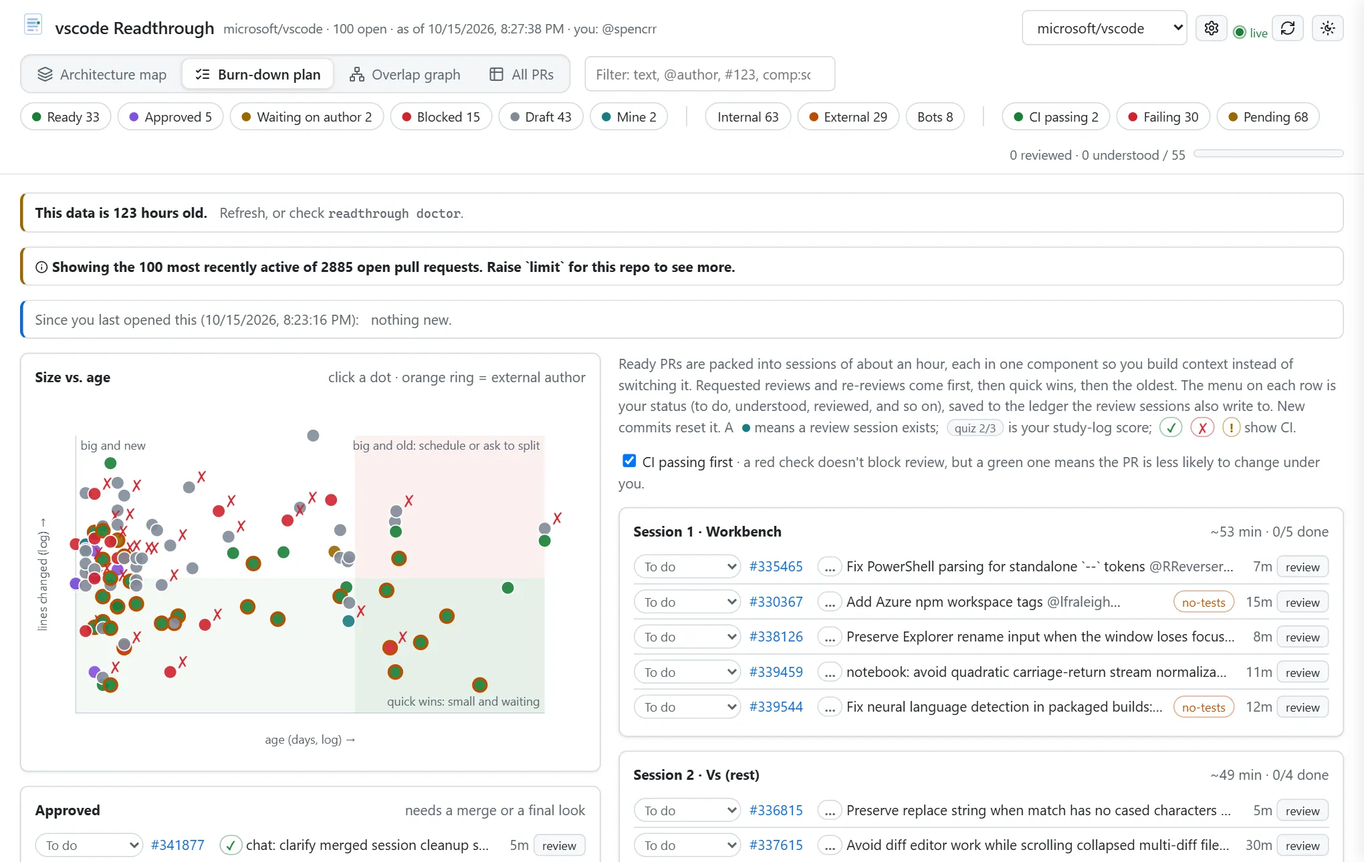
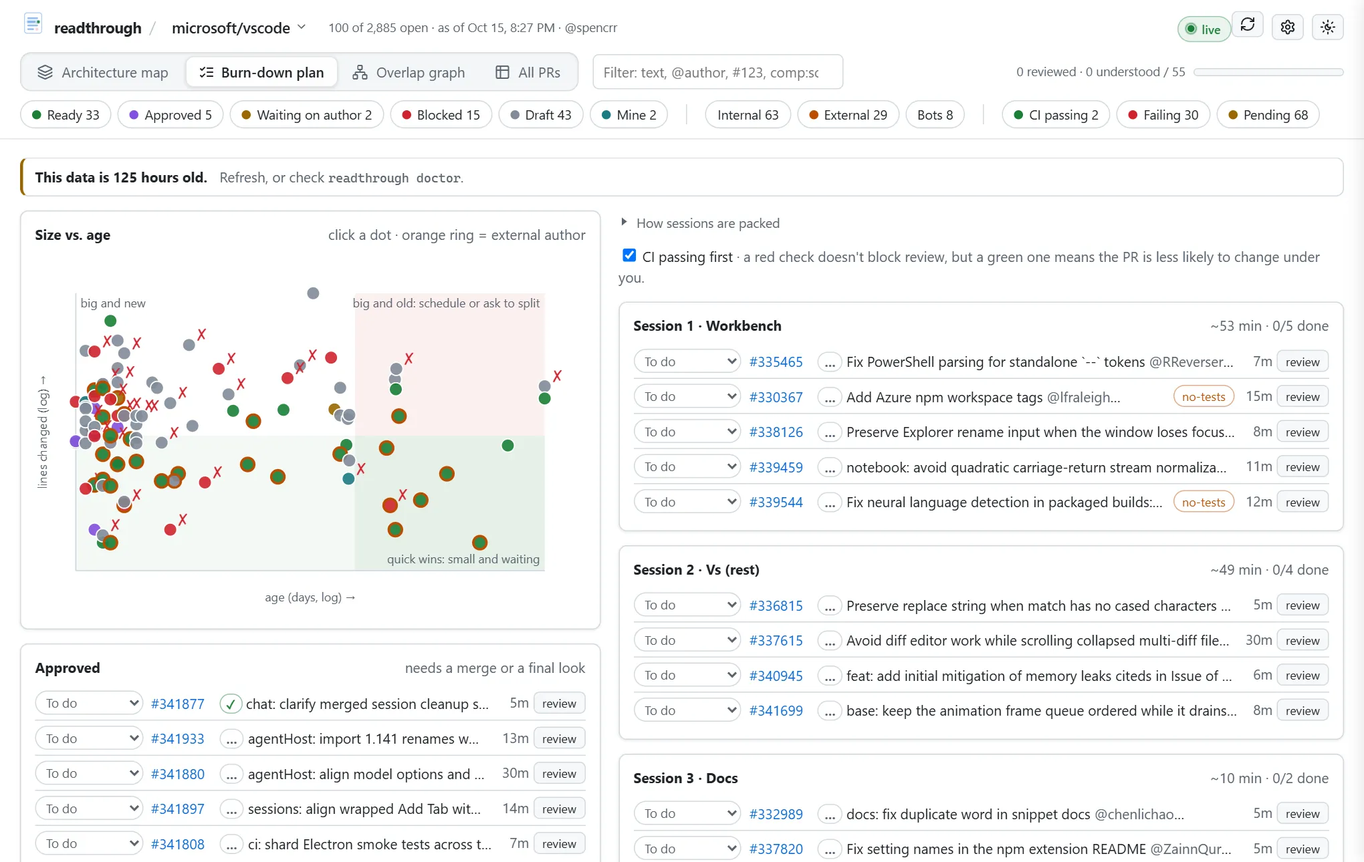
Put the product first in the header, and quieten what sits around the map
The header read "vscode Readthrough · microsoft/vscode · 100 open · as of
10/15/2026, 8:27:38 PM · you: @spencrr", with the repo named twice and
the tool named as if it were the repo's. It now reads in three weights:
readthrough / microsoft/vscode · 100 of 2,885 open · as of 8:27 PM ·
@spencrr. The repo is a quiet pill that opens the switcher (the native
select, laid invisibly over it, so keyboard and screen readers still get
a select), the time is only as long as it needs to be, and the count
carries what used to be a permanent warning banner about the repo's
limit, with the explanation on hover.

The connection was a green "live" label floating beside a button. It's a
status chip now: live, refreshing, offline, or refresh failed, each in
its own colour with the detail on hover; the refresh button spins while
a refresh runs instead of growing a "refreshing…" label. The tab row
stopped changing width while the indicator slides: a selected tab is
bolder, so each label reserves its bold width with an invisible copy.

Around the content: the "nothing new since you last opened this" banner
is gone (news is still announced when there is some), the explanation
under each view folds away under "How to read the map" and stays as you
left it, and the progress bar moved up beside the search box instead of
holding a row of its own. On microsoft/vscode the content starts about
200 px higher.

The setup page shares the header (brand, then where you are: Welcome,
[…]

diff --git a/src/readthrough/assets/web/dashboard.js b/src/readthrough/assets/web/dashboard.js
@@ -192,14 +192,26 @@ function visible(p){
 }
 
 // ---- header
+// "as of" in as few words as the moment allows: the time alone for today, the date too for anything older.
+function when(ts){
+  const d = new Date(ts), now = new Date();
+  const time = d.toLocaleTimeString([], {hour: "numeric", minute: "2-digit"});
+  return d.toDateString() === now.toDateString() ? time : `${d.toLocaleDateString([], {month: "short", day: "numeric"})}, ${time}`;
+}
 function header(){
-  document.title = `${PROFILE.title} Readthrough`;
-  $("title").textContent = `${PROFILE.title} Readthrough`;
+  // The product first, the repo second, the small print third: readthrough / microsoft/vscode · 100 open · as of…
+  document.title = `${PROFILE.title} · readthrough`;
   $("repos").innerHTML = LIVE
-    ? `<select id="repoSwitch" title="Switch repo">${LIVE.repos.map(r => `<option value="${esc(r.slug)}" ${r.slug === SLUG ? "selected" : ""}>${esc(r.name)}</option>`).join("")}<option value="__setup">+ Onboard a repo…</option></select>
-       <a class="btn icon" href="/setup?repo=${encodeURIComponent(SLUG)}" title="Settings for ${esc(DATA.repo)}: account, clone, profile, authors" aria-label="Repo settings">${icon("settings")}</a>`
+    ? `<label class="switch" title="Switch repo (${esc(FORGE.label)})"><span class="switch-name">${esc(DATA.repo)}</span>${icon("chevron-down", "ico sm")}<select id="repoSwitch" aria-label="Switch repo">${LIVE.repos.map(r => `<option value="${esc(r.slug)}" ${r.slug === SLUG ? "selected" : ""}>${esc(r.name)}</option>`).join("")}<option value="__setup">+ Onboard a repo…</option></select></label>`
+    : `<span class="switch static" title="${esc(FORGE.label)}">${esc(DATA.repo)}</span>`;
+  $("tools").innerHTML = LIVE
+    ? `<a class="btn icon" href="/setup?repo=${encodeURIComponent(SLUG)}" title="Settings for ${esc(DATA.repo)}: account, clone, profile, authors" aria-label="Repo settings">${icon("settings")}</a>`
     : "";
-  $("meta").textContent = `${DATA.repo} · ${DATA.prs.length} open · as of ${new Date(DATA.generated).toLocaleString()} · you: @${DATA.viewer}`;
+  const shown = DATA.prs.length, open = DATA.stats?.open;
+  const openCount = open > shown
+    ? `<span title="Showing the ${shown} most recently active of ${open.toLocaleString()} open ${esc(FORGE.pr_noun)}s. Raise \`limit\` in this repo's settings to see more.">${shown} of ${open.toLocaleString()} open</span>`
+    : `${shown} open`;
+  $("meta").innerHTML = [openCount, `as of ${esc(when(DATA.generated))}`, DATA.viewer ? `@${esc(DATA.viewer)}` : ""].filter(Boolean).join(" · ");
   $("logo").innerHTML ||= LOGO;
   renderTabs();
   const count = fn => DATA.prs.reduce((m, p) => (m[fn(p)] = (m[fn(p)] || 0) + 1, m), {});
@@ -225,26 +237,30 @@ function header(){
   const r = ready.filter(p => progress[p.number]?.reviewed && !stale(p.number)).length;
   $("progtext").textContent = `${r} reviewed · ${u} understood / ${ready.length}`;
   $("progbar").innerHTML = `<span style="width:${100*r/ready.length}%;background:var(--ready)"></span><span style="width:${100*(u-r)/ready.length}%;background:color-mix(in srgb,var(--ready) 40%,transparent)"></span>`;
+  const building = !!LIVE?.status?.building;
   $("refresh").innerHTML = LIVE
-    ? `${liveBadge()} <button class="btn icon" data-refresh title="Fetch the latest PRs now" aria-label="Refresh">${icon("refresh-cw")}${LIVE.status?.building ? "refreshing…" : ""}</button>`
+    ? `${liveBadge()}<button class="btn icon ${building ? "busy" : ""}" data-refresh ${building ? "disabled" : ""} title="${building ? "Refreshing now" : "Fetch the latest PRs now"}" aria-label="Refresh">${icon("refresh-cw")}</button>`
     : LINKS.protocol ? `<a class="btn icon" href="readthrough://refresh/${SLUG}" title="Refresh">${icon("refresh-cw")}</a>`
     : `<button class="btn icon" data-copy="readthrough build --open" title="Copies the refresh command" aria-label="Copy refresh command">${icon("refresh-cw")}</button>`;
   syncHash();
   banners();
   favicon(needsYou());
 }
+// The connection and the last refresh, as one quiet chip: live, refreshing, offline, or failed. Details on hover.
 function liveBadge(){
   const s = LIVE.status || {};
-  if (LIVE.disconnected) return `<span class="live-badge off" title="Lost the connection to readthrough serve. Retrying."><span class="ping"></span>offline</span>`;
+  const chip = (cls, text, title) => `<span class="live ${cls}" role="status" title="${esc(title)}"><span class="ping"></span>${text}</span>`;
+  if (LIVE.disconnected) return chip("off", "offline", "Lost the connection to readthrough serve. Retrying.");
+  if (s.building) return chip("busy", "refreshing", "Fetching the latest PRs now.");
   if (s.error) { const e = typeof s.error === "object" ? `${s.error.message} [error ${s.error.id}]` : s.error;
-    return `<span class="live-badge err" title="${esc(e)}"><span class="ping"></span>refresh failed</span>`; }
-  const next = s.next_build ? ` · next check ${new Date(s.next_build * 1000).toLocaleTimeString([], {hour: "numeric", minute: "2-digit"})}` : "";
-  return `<span class="live-badge" title="Connected to readthrough serve${next}"><span class="ping"></span>live</span>`;
+    return chip("err", "refresh failed", `The last refresh failed: ${e}. Showing the last good data; retrying automatically.`); }
+  const next = s.next_build ? ` Next check at ${new Date(s.next_build * 1000).toLocaleTimeString([], {hour: "numeric", minute: "2-digit"})}.` : "";
+  return chip("", "live", `Connected to readthrough serve; the page updates itself.${next}`);
 }
 const TABS = [["map", "Architecture map", "layers"], ["plan", "Burn-down plan", "list-checks"], ["overlap", "Overlap graph", "network"], ["table", "All PRs", "table-2"]];
 function renderTabs(){
   const nav = $("tabs");
-  if (!nav.childElementCount) nav.innerHTML = `<span class="tab-ind"></span>` + TABS.map(([k, l, ic]) => `<button class="tab" data-tab="${k}" title="${l}">${icon(ic)}<span>${l}</span></button>`).join("");
+  if (!nav.childElementCount) nav.innerHTML = `<span class="tab-ind"></span>` + TABS.map(([k, l, ic]) => `<button class="tab" data-tab="${k}" title="${l}">${icon(ic)}<span class="tl" data-l="${l}">${l}</span></button>`).join("");
   let on;
   nav.querySelectorAll(".tab").forEach(t => { const yes = t.dataset.tab === state.tab; t.classList.toggle("on", yes); t.setAttribute("aria-current", yes ? "page" : "false"); if (yes) on = t; });
   const ind = nav.querySelector(".tab-ind");
@@ -267,13 +283,17 @@ function pick(group, key, e){
   render();
 }
 const needsYou = () => DATA.prs.filter(p => p.flags.some(f => f.kind === "you") && !progress[p.number]?.reviewed).length;
+// The explanation under a view's title, folded away once read; whether it's open is remembered across views and visits.
+const legend = (title, html) => `<details class="legend" ${localStorage.getItem("readthrough:legend") === "open" ? "open" : ""}><summary>${title}</summary><p>${html}</p></details>`;
+document.addEventListener("toggle", e => { if (e.target.matches?.("details.legend")) localStorage.setItem("readthrough:legend", e.target.open ? "open" : "closed"); }, true);
 function banners(){
   const out = [];
   const ageH = (Date.now() - new Date(DATA.generated)) / 3.6e6, fresh = DATA.freshness || {stale_live_hours: 2, stale_snapshot_hours: 26};
   if (ageH > (LIVE ? fresh.stale_live_hours : fresh.stale_snapshot_hours)) out.push(`<div class="banner warn"><b>This data is ${Math.round(ageH)} hours old.</b><span class="muted">Refresh, or check <code>readthrough doctor</code>.</span></div>`);
   const err = LIVE?.status?.error;
   if (err && typeof err === "object") out.push(`<div class="banner warn"><b>The last refresh failed</b><span>during ${esc(err.step)}: ${esc(err.message)}</span><span class="muted">Showing the last good data. ${LIVE.status.consecutive_failures > 1 ? `${LIVE.status.consecutive_failures} failures in a row. ` : ""}Retrying automatically. Error <code>${esc(err.id)}</code> in readthrough.log.</span></div>`);
-  for (const w of DATA.warnings || []) out.push(`<div class="banner warn"><b>${icon("info", "ico sm")}${esc(w.message)}</b>${w.details?.length ? `<details class="muted"><summary>${w.details.length} detail${w.details.length > 1 ? "s" : ""}</summary><ul>${w.details.map(d => `<li><code>${esc(d)}</code></li>`).join("")}</ul></details>` : ""}</div>`);
+  // The `limit` warning is a standing fact about a big repo, not news: the header's count carries it ("100 of 2,885 open").
+  for (const w of (DATA.warnings || []).filter(w => w.code !== "limit")) out.push(`<div class="banner warn"><b>${icon("info", "ico sm")}${esc(w.message)}</b>${w.details?.length ? `<details class="muted"><summary>${w.details.length} detail${w.details.length > 1 ? "s" : ""}</summary><ul>${w.details.map(d => `<li><code>${esc(d)}</code></li>`).join("")}</ul></details>` : ""}</div>`);
   if (DATA.draft) out.push(`<div class="banner warn"><b>Onboarding preview.</b><span class="muted">This map comes from a draft profile. Edit it, then finish with <code>readthrough onboard ${esc(DATA.repo)} --accept</code>.</span></div>`);
   if (DATA.drift) out.push(`<div class="banner warn"><b>The map is drifting:</b><span>only ${Math.round(DATA.drift.coverage * 100)}% of open-PR changes land in a known component.</span><span class="muted">Unmapped: ${DATA.drift.unmapped.map(([p, n]) => `<code>${esc(p)}</code> (${n})`).join(", ")}. Update it with <code>readthrough onboard ${esc(DATA.repo)} --update</code>.</span></div>`);
   const nw = DATA.news || {};
@@ -284,7 +304,8 @@ function banners(){
     if (nw.changed_after_review?.length) parts.push(`<span><b>Changed since your review:</b> ${list(nw.changed_after_review)}</span>`);
     if (nw.opened?.length) parts.push(`<span><b>New:</b> ${list(nw.opened)}</span>`);
     if (nw.closed?.length) parts.push(`<span class="muted">Closed or merged: ${nw.closed.map(c => `<span title="${esc(c.title)}">#${c.number}</span>`).join(", ")}</span>`);
-    out.push(`<div class="banner"><span class="muted">Since you last opened this (${new Date(nw.since).toLocaleString()}):</span>${parts.join("") || '<span class="muted">nothing new.</span>'}</div>`);
+    // Only when there is news: "nothing new" isn't worth a banner on every visit.
+    if (parts.length) out.push(`<div class="banner"><span class="muted">Since you last opened this (${esc(when(nw.since))}):</span>${parts.join("")}</div>`);
   }
   $("banners").innerHTML = out.join("");
 }
@@ -316,7 +337,7 @@ function mixBar(prs, comp, total, max){
 function renderMap(){
   const vis = DATA.prs.filter(visible);
   const max = Math.max(1, ...DATA.components.map(c => vis.reduce((s,p) => s + (p.by_comp[c.id]||0), 0)));
-  let html = `<p class="legend">Each chip is a PR, colored by lane and sized by how much it changes. An outline marks the component where most of the change lives. An orange dot marks an external author, a hollow one a first-time contributor. Hover a chip to light up every component it touches; click a component to filter. The bar under a component shows how much is changing there compared with the busiest one, colored by lane. ${icon("cog", "ico sm")}Placement is by the profile's path patterns, not a language model. ${profileLine()}</p>`;
+  let html = legend("How to read the map", `Each chip is a PR, colored by lane and sized by how much it changes. An outline marks the component where most of the change lives. An orange dot marks an external author, a hollow one a first-time contributor. Hover a chip to light up every component it touches; click a component to filter. The bar under a component shows how much is changing there compared with the busiest one, colored by lane. ${icon("cog", "ico sm")}Placement is by the profile's path patterns, not a language model. ${profileLine()}`);
   if (!vis.length) { $("v-map").innerHTML = html + EMPTY("No PRs match these filters."); return; }
   for (const {id: layer, label, flow} of PROFILE.layers){
     const bricks = DATA.components.filter(c => c.layer === layer).map((c, i) => {
@@ -392,7 +413,7 @@ function renderPlan(){
       ${lane("mine","your PRs")}
       ${lane("draft","not ready yet")}
     </div><div>
-      <p class="muted" style="margin-top:0">Ready PRs are packed into sessions of about an hour, each in one component so you build context instead of switching it. Requested reviews and re-reviews come first, then quick wins, then the oldest. The menu on each row is your status (to do, understood, reviewed, and so on)${LIVE ? ", saved to the ledger the review sessions also write to" : ""}. New commits reset it. A <span class="sess"></span> means a review session exists; <span class="score">quiz 2/3</span> is your study-log score; <span class="cib passing">✓</span> <span class="cib failing">✗</span> <span class="cib failing-optional">!</span> show CI.</p>
+      ${legend("How sessions are packed", `Ready PRs are packed into sessions of about an hour, each in one component so you build context instead of switching it. Requested reviews and re-reviews come first, then quick wins, then the oldest. The menu on each row is your status (to do, understood, reviewed, and so on)${LIVE ? ", saved to the ledger the review sessions also write to" : ""}. New commits reset it. A <span class="sess"></span> means a review session exists; <span class="score">quiz 2/3</span> is your study-log score; <span class="cib passing">✓</span> <span class="cib failing">✗</span> <span class="cib failing-optional">!</span> show CI.`)}
       <p style="margin-top:0"><label><input type="checkbox" id="greenFirst" ${state.greenFirst ? "checked" : ""}> CI passing first</label> <span class="muted">· a red check doesn't block review, but a green one means the PR is less likely to change under you.</span></p>
       ${sessions || `<div class="card">${EMPTY("Nothing ready matches these filters.")}</div>`}
     </div></div>`;

diff --git a/src/readthrough/assets/web/setup.js b/src/readthrough/assets/web/setup.js
@@ -2,8 +2,19 @@ const LIVE = /*__READTHROUGH_LIVE__*/null;
 const $ = id => document.getElementById(id);
 const esc = s => String(s ?? "").replace(/[&<>"']/g, c => ({"&":"&amp;","<":"&lt;",">":"&gt;",'"':"&quot;","'":"&#39;"}[c]));
 const icon = (name, cls = "ico") => `<svg class="${cls}" viewBox="0 0 24 24" aria-hidden="true">${LUCIDE[name] || ""}</svg>`;
-const theme = localStorage.getItem("readthrough:theme") || "auto";
-document.documentElement.dataset.theme = theme === "auto" ? (matchMedia("(prefers-color-scheme: dark)").matches ? "dark" : "light") : theme;
+// The theme: the same three-way choice as the dashboard, remembered in the same place.
+const THEMES = ["auto", "light", "dark"];
+let themePref = localStorage.getItem("readthrough:theme") || "auto";
+const darkQuery = matchMedia("(prefers-color-scheme: dark)");
+function applyTheme(){
+  document.documentElement.dataset.theme = themePref === "auto" ? (darkQuery.matches ? "dark" : "light") : themePref;
+  $("theme").innerHTML = icon({auto: "sun-moon", light: "sun", dark: "moon"}[themePref]);
+  $("theme").title = {auto: "Theme: follows your OS", light: "Theme: light", dark: "Theme: dark"}[themePref] + ". Click to change.";
+  $("theme").setAttribute("aria-label", $("theme").title);
+}
+darkQuery.addEventListener("change", applyTheme);
+$("theme").addEventListener("click", () => { themePref = THEMES[(THEMES.indexOf(themePref) + 1) % THEMES.length]; localStorage.setItem("readthrough:theme", themePref); applyTheme(); });
+applyTheme();
 $("logo").innerHTML = `<svg class="logo" viewBox="0 0 32 32" aria-hidden="true"><rect x="5.5" y="3.5" width="21" height="25" rx="3" fill="none" stroke="currentColor" stroke-opacity=".35"/><rect x="7.5" y="7.25" width="17" height="5.5" rx="2.75" fill="currentColor" fill-opacity=".16"/><g stroke="currentColor" stroke-width="2" stroke-linecap="round" stroke-opacity=".45"><line x1="10" y1="10" x2="21" y2="10"/><line x1="10" y1="14.5" x2="18" y2="14.5"/><line x1="10" y1="19" x2="21" y2="19"/><line x1="10" y1="23.5" x2="16" y2="23.5"/></g></svg>`;
 function toast(msg){ const t = $("toast"); t.textContent = msg; t.classList.add("on"); clearTimeout(toast.t); toast.t = setTimeout(() => t.classList.remove("on"), 2600); }
 async function api(path, body){
@@ -39,16 +50,28 @@ async function load(){
   render();
 }
 function render(){
-  const st = S.state, repos = st.repos;
-  $("back").innerHTML = repos.some(r => r.onboarded) ? `<a class="btn" href="/">${icon("map")}Dashboards</a>` : "";
+  const st = S.state, repos = st.repos, onboarded = repos.filter(r => r.onboarded);
+  $("back").innerHTML = onboarded.length ? `<a class="btn" href="/">${icon("map")}Dashboards</a>` : "";
+  // Where you are, in the header: the repo being set up, or the first-run welcome.
+  const repo = st.repo;
+  $("where").textContent = S.sel && repo ? (repo.onboarded ? repo.name : `Set up ${repo.name}`) : onboarded.length ? "Set up a repo" : "Welcome";
+  $("meta").textContent = onboarded.length ? `${onboarded.length} repo${onboarded.length > 1 ? "s" : ""} onboarded` : "";
   $("nav").innerHTML = repos.map(r => `<button class="ritem ${isSel(r) ? "on" : ""}" data-repo="${esc(r.slug)}"><span class="dot ${r.onboarded ? "ok" : "todo"}" title="${r.onboarded ? "Onboarded" : "Not onboarded yet"}"></span><span class="n">${esc(r.name)}${forgeTag(r)}</span>${same(st.settings.default_repo, r.cli_name) ? '<span style="font-size:11px;color:var(--mut)">default</span>' : ""}</button>`).join("")
     + `<button class="ritem ${S.sel ? "" : "on"}" data-new>${icon("plus")}<span class="n">Onboard a repo</span></button>`
-    + `<div style="margin-top:14px">${globalCard()}</div>`;
-  const repo = st.repo;
+    + (onboarded.length ? `<div style="margin-top:14px">${globalCard()}</div>` : "");  // nothing to set until a repo exists
   if (!S.sel || !repo || !repo.onboarded) {
-    renderWizard(repo);
+    renderWizard(repo, {first: !onboarded.length});
+    if (!onboarded.length && !S.w.repo && !S.w.focused) { S.w.focused = true; $("w-repo")?.focus(); }
     if (S.w.repo && !S.w.info && !S.w.tried) { S.w.tried = true; act({dataset: {act: "inspect"}}); }
   } else renderSettings(repo);
+}
+// The first thing a newcomer sees: what readthrough does and what the three steps below will ask for.
+function welcome(){
+  return `<div class="card welcome"><h2>Welcome to readthrough</h2>
+    <p>It lays a repo's open pull requests on a map of the repo's architecture, packs the reviewable ones into hour-long sessions, and gives each one a study brief with a quiz, so you understand a change before you review it. Three steps, about two minutes:</p>
+    <ol><li><span class="step">1</span><span><b>Which repo</b> and how to read it.</span></li>
+    <li><span class="step">2</span><span><b>Your clone</b>, for deep reviews and study. Optional for the map.</span></li>
+    <li><span class="step">3</span><span><b>Its architecture profile</b>: drafted for you, checked against recent changes, accepted by you.</span></li></ol></div>`;
 }
 
 // ---- global settings (in the side bar)
@@ -62,17 +85,17 @@ function globalCard(){
 }
 
 // ---- onboarding wizard
-function renderWizard(repo){
+function renderWizard(repo, {first = false} = {}){
   const w = S.w ||= {repo: repo?.name || "", forge: repo?.forge || "github", account: repo?.account || "", clone: repo?.clone || "", remote: repo?.remote || "", info: null, cloneInfo: null, toml: repo?.profile_text || "", report: null, log: [], busy: false, editable: true, source: repo?.source || null};
   const accounts = S.state.accounts, forges = S.state.forges, forge = forgeOf(w.forge), rt = S.state.runtime || {};
   const cli = `readthrough onboard ${w.repo || forge.shape.split(" ")[0]}${w.forge !== "github" ? ` --forge ${w.forge}` : ""}${w.account ? ` --account ${w.account}` : ""}${w.clone ? ` --clone "${w.clone}"` : ""}`;
-  const step = (n, done) => `<span class="step ${done ? "done" : ""}">${done ? "✓" : n}</span>`;
+  const step = (n, done) => `<span class="step ${done ? "done" : ""}">${done ? icon("check", "ico sm") : n}</span>`;
   const info = w.info;
   // How the chosen forge is read, and where its credential comes from, so nobody is surprised by a CLI or a
   // token lookup. Written per adapter; after Check access the line says which credential was actually used.
   const howRead = `<p class="sub access"><b>${esc(forge.label)}</b> is read through ${esc(forge.access || "its API")}${forge.credentials?.length ? `, as ${forge.credentials.map(c => `<span class="cred">${esc(c)}</span>`).join(" ")}` : ""}.
     Nothing is written to the repo, and readthrough never stores a token${forge.accounts ? "" : " or prompts you to sign in"}.</p>`;
-  $("main").innerHTML = `
+  $("main").innerHTML = `${first ? welcome() : ""}
   <div class="card"><h2>${step(1, !!info)}Which repo?</h2>
     ${howRead}
     <div class="row"><label class="f">Where<select id="w-forge">${forges.map(f => `<option value="${esc(f.name)}" ${w.forge === f.name ? "selected" : ""} title="${esc(f.summary)}">${esc(f.label)}</option>`).join("")}</select></label>

diff --git a/src/readthrough/assets/web/dashboard.css b/src/readthrough/assets/web/dashboard.css
@@ -8,21 +8,25 @@
   --l0:#39c5cf;--l1:#539bf5;--l2:#57ab5a;--l3:#986ee2;--l4:#e0823d;--l5:#e275ad;--support:#768390;
   --risk:#e0823d;--glass-well:rgba(28,33,40,.55);--glass-chip:rgba(68,76,86,.55);--glass-hi:rgba(255,255,255,.07);--glass-blur:saturate(1.4) blur(16px);
 }
-header{position:sticky;top:0;z-index:5;background:var(--glass-bg);-webkit-backdrop-filter:var(--glass-blur);backdrop-filter:var(--glass-blur);border-bottom:1px solid var(--glass-line);padding:10px 20px;display:flex;flex-direction:column;gap:9px}
+header{-webkit-backdrop-filter:var(--glass-blur);backdrop-filter:var(--glass-blur);display:flex;flex-direction:column;gap:9px}
 .hrow{display:flex;gap:14px;align-items:center;flex-wrap:wrap}.hrow.top{flex-wrap:nowrap;gap:12px}
-h1{font-size:17px;margin:0;font-weight:600;flex:1;min-width:0;display:flex;align-items:center;gap:9px;white-space:nowrap}
-h1 #title{flex:none}h1 small{color:var(--mut);font-weight:400;font-size:13px;overflow:hidden;text-overflow:ellipsis;min-width:0}
-.hactions{display:flex;gap:8px;align-items:center;flex:none}#repos{display:inline-flex;gap:8px;align-items:center}
-.logo{width:26px;height:26px;flex:none;color:var(--acc)}.logo .sweep{animation:read 8s ease-in-out infinite}
+.logo .sweep{animation:read 8s ease-in-out infinite}
 .logo .blip{animation:blip 8s ease-out infinite}.logo .blip.b2{animation-delay:-4s}
 /* The band dwells on each of the four lines, then starts over; the notes light up as it passes them. */
 @keyframes read{0%,20%{transform:translateY(0)}25%,45%{transform:translateY(4.5px)}50%,70%{transform:translateY(9px)}75%,95%{transform:translateY(13.5px)}100%{transform:translateY(0)}}
 @keyframes blip{0%,24%{opacity:.2}30%{opacity:1}70%,100%{opacity:.2}}
 .how{font-size:12.5px;color:var(--mut);border-top:1px solid var(--line);margin-top:18px;padding-top:10px}.how p{margin:4px 0}
-.btn.icon{padding:4px 7px;display:inline-flex;align-items:center;gap:6px}
+.btn.icon{padding:0 7px;height:26px;display:inline-flex;align-items:center;gap:6px}
 .tabs{position:relative;display:flex;gap:2px;padding:3px;border-radius:11px;background:var(--glass-well);border:1px solid var(--glass-line);box-shadow:inset 0 1px 2px rgba(0,0,0,.06)}
 .tab{position:relative;z-index:1;display:flex;align-items:center;gap:7px;padding:5px 13px;border:0;background:none;border-radius:8px;cursor:pointer;color:var(--mut);font:inherit;transition:color .2s}
 .tab:hover{color:var(--fg)}.tab.on{color:var(--fg);font-weight:500}.tab:focus-visible{outline:2px solid var(--acc);outline-offset:1px}
+/* A selected tab is bolder, and bold is wider: each label reserves its bold width up front (an invisible bold
+   copy under it), so the row doesn't breathe while the indicator slides. */
+.tab .tl{display:inline-flex;flex-direction:column;align-items:center}
+.tab .tl::after{content:attr(data-l);font-weight:500;height:0;overflow:hidden;visibility:hidden;pointer-events:none}
+details.legend{color:var(--mut);font-size:13px;margin:0 0 14px}details.legend summary{cursor:pointer;display:inline-flex;align-items:center;gap:6px;list-style:none;user-select:none}
+details.legend summary::-webkit-details-marker{display:none}details.legend summary::before{content:"";width:0;height:0;border:4px solid transparent;border-left:5px solid currentColor;margin-left:3px;transition:transform .15s}
+details.legend[open] summary::before{transform:rotate(90deg)}details.legend p{margin:6px 0 0}
 .tab-ind{position:absolute;z-index:0;top:3px;bottom:3px;left:3px;width:0;border-radius:8px;background:var(--glass-chip);border:1px solid var(--glass-line);box-shadow:0 1px 3px rgba(0,0,0,.12),inset 0 1px 0 var(--glass-hi);transition:left .32s cubic-bezier(.2,.8,.2,1),width .32s cubic-bezier(.2,.8,.2,1)}
 .spacer{flex:1}
 .filters{display:flex;gap:6px;flex-wrap:wrap;align-items:center}
@@ -33,7 +37,7 @@ h1 #title{flex:none}h1 small{color:var(--mut);font-weight:400;font-size:13px;ove
 input[type=search],textarea,select{background:var(--panel);border:1px solid var(--line);color:var(--fg);padding:6px 10px;border-radius:6px;font:inherit}
 input[type=search]{width:250px}textarea{width:100%;resize:vertical;min-height:64px}
 input[type=search]:focus,textarea:focus{outline:2px solid var(--acc);outline-offset:-1px;border-color:transparent}
-.progress{display:flex;align-items:center;gap:8px;color:var(--mut);font-size:13px}
+.progress{display:flex;align-items:center;gap:8px;color:var(--mut);font-size:12.5px;margin-left:auto;white-space:nowrap}
 .bar{width:150px;height:8px;background:var(--subtle);border:1px solid var(--line);border-radius:4px;overflow:hidden;display:flex}.bar span{height:100%}
 .btn{background:var(--subtle);border:1px solid var(--line);color:var(--fg);border-radius:6px;padding:3px 10px;font:inherit;font-size:13px;cursor:pointer;line-height:1.5;display:inline-block}
 .btn:hover{border-color:var(--line-strong);text-decoration:none}.btn:disabled{opacity:.5;cursor:default}
@@ -74,9 +78,6 @@ main{padding:18px 20px}body.drawer-open main{margin-right:var(--drawer-w,560px)}
 .cib.passing{color:var(--good);border-color:color-mix(in srgb,var(--good) 45%,transparent)}
 .cib.failing-main{color:var(--mut);text-decoration:line-through}
 .checks div{display:flex;gap:8px;align-items:baseline;padding:1px 0}
-.live-badge{font-size:12px;color:var(--ready);display:inline-flex;align-items:center;gap:6px}.live-badge.off{color:var(--mut)}.live-badge.err{color:var(--bad)}
-.ping{position:relative;width:8px;height:8px;border-radius:50%;background:currentColor}.live-badge:not(.off) .ping::after{content:"";position:absolute;inset:0;border-radius:50%;border:1.5px solid currentColor;animation:ping 2.4s ease-out infinite}
-@keyframes ping{0%{transform:scale(1);opacity:.8}100%{transform:scale(3.2);opacity:0}}
 /* map */
 .layer{display:grid;grid-template-columns:130px 1fr;gap:12px;margin-bottom:14px}
 .layer-label{color:var(--mut);font-size:12px;text-transform:uppercase;letter-spacing:.06em;padding:10px 0 0 10px;border-left:3px solid}

diff --git a/src/readthrough/assets/web/theme.css b/src/readthrough/assets/web/theme.css
@@ -7,3 +7,29 @@ a{color:var(--acc);text-decoration:none}a:hover{text-decoration:underline}
 code,.mono{font-family:ui-monospace,"Cascadia Code",Consolas,monospace;font-size:12.5px}
 .ico{width:16px;height:16px;stroke:currentColor;fill:none;stroke-width:2;stroke-linecap:round;stroke-linejoin:round;vertical-align:-3px;flex:none}
 .ico.sm{width:13px;height:13px;vertical-align:-2px;margin-right:4px}
+/* The header both pages share: the product first, then where you are, then the small print. */
+header{position:sticky;top:0;z-index:5;background:var(--glass-bg);-webkit-backdrop-filter:saturate(1.6) blur(16px);backdrop-filter:saturate(1.6) blur(16px);border-bottom:1px solid var(--glass-line);padding:10px 20px}
+h1{font-size:15px;margin:0;font-weight:400;flex:1;min-width:0;display:flex;align-items:center;gap:8px;white-space:nowrap;line-height:26px}
+.logo{width:26px;height:26px;flex:none;color:var(--acc)}
+.brand{font-weight:650;letter-spacing:-.01em;color:var(--fg)}
+.crumb{display:inline-flex;align-items:center;gap:8px;min-width:0}
+.crumb-sep{color:var(--line-strong);font-weight:300;font-size:17px;position:relative;top:-1px}
+h1 small{color:var(--mut);font-size:12.5px;overflow:hidden;text-overflow:ellipsis;min-width:0;margin-left:4px}
+/* The repo switcher: a quiet pill that opens the native select laid invisibly over it, so it's keyboard-reachable. */
+.switch{position:relative;display:inline-flex;align-items:center;gap:5px;padding:0 8px;height:26px;border-radius:7px;font-weight:500;color:var(--fg);max-width:40vw}
+.switch:not(.static){cursor:pointer}.switch:not(.static):hover{background:var(--glass-well)}
+.switch .ico.sm{margin:0;color:var(--mut)}.switch-name{overflow:hidden;text-overflow:ellipsis;white-space:nowrap}
+.switch select{position:absolute;inset:0;width:100%;height:100%;opacity:0;cursor:pointer;margin:0}
+.switch:has(select:focus-visible){outline:2px solid var(--acc);outline-offset:1px}
+.hactions{display:flex;gap:8px;align-items:center;flex:none}
+/* The live chip: a status, not a button. The dot pulses while connected; the colour says how things stand. */
+.live{display:inline-flex;align-items:center;gap:7px;height:26px;padding:0 10px 0 9px;border-radius:999px;font-size:12px;font-weight:500;color:var(--good);border:1px solid color-mix(in srgb,var(--good) 35%,transparent);background:color-mix(in srgb,var(--good) 9%,transparent);cursor:default;white-space:nowrap}
+.live.busy{color:var(--acc);border-color:color-mix(in srgb,var(--acc) 35%,transparent);background:color-mix(in srgb,var(--acc) 9%,transparent)}
+.live.off{color:var(--mut);border-color:var(--line);background:var(--subtle)}
+.live.err{color:var(--bad);border-color:color-mix(in srgb,var(--bad) 35%,transparent);background:color-mix(in srgb,var(--bad) 8%,transparent)}
+.ping{position:relative;width:7px;height:7px;border-radius:50%;background:currentColor;flex:none}
+.live:not(.off) .ping::after{content:"";position:absolute;inset:0;border-radius:50%;border:1.5px solid currentColor;animation:ping 2.4s ease-out infinite}
+@keyframes ping{0%{transform:scale(1);opacity:.9}70%,100%{transform:scale(2.6);opacity:0}}
+@keyframes spin{to{transform:rotate(360deg)}}
+.btn.icon.busy .ico{animation:spin 1s linear infinite}
+@media (prefers-reduced-motion: reduce){.live .ping::after,.btn.icon.busy .ico{animation:none}}

diff --git a/src/readthrough/assets/web/setup.css b/src/readthrough/assets/web/setup.css
@@ -1,7 +1,11 @@
-header{position:sticky;top:0;z-index:5;display:flex;align-items:center;gap:12px;padding:10px 20px;background:var(--glass-bg);-webkit-backdrop-filter:saturate(1.6) blur(16px);backdrop-filter:saturate(1.6) blur(16px);border-bottom:1px solid var(--glass-line)}
-header h1{font-size:17px;margin:0;font-weight:600;flex:1;display:flex;align-items:center;gap:9px}
-.logo{width:26px;height:26px;color:var(--acc)}
+header{display:flex;align-items:center;gap:12px}
+.btn.icon{padding:0 7px;height:26px}
 .layout{display:grid;grid-template-columns:250px minmax(0,1fr);gap:22px;padding:18px 20px;max-width:1500px}
+.welcome{background:linear-gradient(135deg,color-mix(in srgb,var(--acc) 10%,var(--panel)),var(--panel) 70%)}
+.welcome h2{font-size:17px;margin:0 0 6px}.welcome p{margin:0 0 10px;max-width:70ch}
+.welcome ol{margin:0;padding-left:0;list-style:none;display:flex;flex-direction:column;gap:6px}
+.welcome li{display:flex;gap:8px;align-items:baseline;color:var(--mut);font-size:13px}.welcome li b{color:var(--fg);font-weight:500}
+.welcome .step{display:inline-flex;align-items:center;justify-content:center;width:20px;height:20px;border-radius:50%;background:var(--acc);color:var(--acc-fg);font-size:11.5px;font-weight:600;flex:none;position:relative;top:4px}
 nav.repos{display:flex;flex-direction:column;gap:4px}
 .ritem{display:flex;align-items:center;gap:8px;padding:7px 10px;border-radius:8px;cursor:pointer;border:1px solid transparent;background:none;color:var(--fg);font:inherit;text-align:left}
 .ritem:hover{background:var(--subtle)}.ritem.on{background:var(--acc-soft);border-color:color-mix(in srgb,var(--acc) 30%,transparent)}
@@ -9,7 +13,7 @@ nav.repos{display:flex;flex-direction:column;gap:4px}
 .dot{width:8px;height:8px;border-radius:50%;flex:none;background:var(--mut)}.dot.ok{background:var(--good)}.dot.todo{background:var(--warn)}
 .card{background:var(--panel);border:1px solid var(--line);border-radius:10px;padding:14px 16px;margin-bottom:14px;box-shadow:var(--shadow)}
 .card h2{font-size:15px;margin:0 0 4px;display:flex;align-items:center;gap:8px}.card h2 .step{display:inline-flex;align-items:center;justify-content:center;width:22px;height:22px;border-radius:50%;background:var(--subtle);border:1px solid var(--line);font-size:12px;color:var(--mut)}
-.card h2 .step.done{background:var(--good);border-color:var(--good);color:#fff}
+.card h2 .step.done{background:var(--good);border-color:var(--good);color:#fff}.card h2 .step .ico.sm{margin:0;stroke-width:2.5}
 .card.dim{opacity:.55;pointer-events:none}
 .sub{color:var(--mut);font-size:13px;margin:0 0 10px}
 .access .cred{display:inline-block;padding:0 7px;margin:1px 2px;border-radius:999px;background:var(--inset);border:1px solid var(--line);color:var(--fg);font-size:12px}

diff --git a/src/readthrough/assets/web/dashboard.html b/src/readthrough/assets/web/dashboard.html
@@ -13,12 +13,13 @@
 <body>
 <header>
   <div class="hrow top">
-    <h1><span id="logo"></span><span id="title">Readthrough</span> <small id="meta"></small></h1>
-    <div class="hactions"><span id="repos"></span><span id="refresh"></span><button class="btn icon" id="theme"></button></div>
+    <h1><span id="logo"></span><span class="brand">readthrough</span><span class="crumb"><span class="crumb-sep" aria-hidden="true">/</span><span id="repos"></span></span><small id="meta"></small></h1>
+    <div class="hactions"><span id="refresh"></span><span id="tools"></span><button class="btn icon" id="theme"></button></div>
   </div>
   <div class="hrow">
     <nav class="tabs" id="tabs" aria-label="Views"></nav>
     <input type="search" id="q" placeholder="Filter: text, @author, #123, comp:scorer, is:external, ci:failing">
+    <div class="progress" title="Of the PRs that aren't drafts or yours: how many you've marked reviewed, and understood"><span id="progtext"></span><div class="bar" id="progbar"></div></div>
   </div>
   <div class="hrow" id="filterrow">
     <div class="filters" id="lanes" role="group" aria-label="Lanes"></div>
@@ -27,8 +28,6 @@
     <span class="sep"></span>
     <div class="filters" id="cis" role="group" aria-label="CI"></div>
     <span id="filtered"></span>
-    <span class="spacer"></span>
-    <div class="progress"><span id="progtext"></span><div class="bar" id="progbar"></div></div>
   </div>
 </header>
 <main>

diff --git a/src/readthrough/assets/web/setup.html b/src/readthrough/assets/web/setup.html
@@ -12,12 +12,12 @@
 </head>
 <body>
 <header>
-  <h1><span id="logo"></span>readthrough <span style="color:var(--mut);font-weight:400;font-size:13px">repos and onboarding</span></h1>
-  <span id="back"></span>
+  <h1><span id="logo"></span><span class="brand">readthrough</span><span class="crumb"><span class="crumb-sep" aria-hidden="true">/</span><span class="switch static" id="where">Set up</span></span><small id="meta"></small></h1>
+  <div class="hactions"><span id="back"></span><button class="btn icon" id="theme"></button></div>
 </header>
 <div class="layout">
   <nav class="repos" id="nav" aria-label="Repos"></nav>
-  <main id="main"><div class="empty">Loading…</div></main>
+  <main id="main"><div class="empty">Checking your accounts and repos…</div></main>
 </div>
 <div class="toast" id="toast"></div>
 <script nonce="__NONCE__">/*__READTHROUGH_ICONS__*/</script>

diff --git a/tests/test_browser.py b/tests/test_browser.py
@@ -135,8 +135,13 @@ def test_every_view_renders_without_script_errors(page):
 
 
 def test_warnings_from_the_build_are_shown(page):
+    """A standing fact about a big repo (only the most active PRs are fetched) is in the header's count, with the
+    explanation on hover, rather than a warning banner on every visit; the other warnings stay banners."""
     open_dashboard(page)
-    assert "most recently active of 40" in page.inner_text("#banners")
+    assert "3 of 40 open" in page.inner_text("#meta")
+    assert "most recently active of 40" in page.get_attribute("#meta span[title]", "title")
+    assert "most recently active" not in page.inner_text("#banners")
+    assert page.inner_text("#tabs").count("Architecture map") == 1, "the bold-width reservation isn't read as text"
 
 
 def test_lane_pills_select_only_then_restore(page):

diff --git a/docs/guide.md b/docs/guide.md
@@ -507,7 +507,7 @@ Every command except `onboard`, `repos`, `default`, `remove`, `install`, `uninst
 
 **"The last refresh failed".** The live server couldn't refresh a repo, so the page is showing the last good data. The banner says which step failed, why, and the error id. Temporary problems (a dropped connection, GitHub having a bad minute, a rate limit) are retried a few times within each refresh, and a failed refresh is tried again after 1, 2, and 5 minutes before going back to the normal interval. If it keeps failing, the cause is usually your network or `gh` being signed out; `readthrough doctor` checks both.
 
-**A yellow banner says something is partial.** The build carried on without something optional, and says what: PRs past the repo's `limit`, PRs too big to fetch completely (GitHub lists at most 3,000 files per PR), diffs GitHub won't serve (over 300 files) or that failed to download, rule files, CI context, or team membership checks that failed. The affected PRs carry a matching signal, so "no signals" never silently means "not checked". Optional pieces that failed are fetched again on the next refresh.
+**A yellow banner says something is partial.** The build carried on without something optional, and says what: PRs too big to fetch completely (GitHub lists at most 3,000 files per PR), diffs GitHub won't serve (over 300 files) or that failed to download, rule files, CI context, or team membership checks that failed. The affected PRs carry a matching signal, so "no signals" never silently means "not checked". Optional pieces that failed are fetched again on the next refresh. One standing fact isn't a banner: when a repo has more open PRs than its `limit`, the header's count says so ("100 of 2,885 open"), with the detail on hover.
 
 **Connection resets or rate limits in the log.** Forges throttle bursts of parallel requests. They're retried automatically, waiting what the forge asks for (up to `[tuning.forge] rate_limit_wait_seconds`). If they're frequent, lower `[tuning.forge] concurrency`; on gitlab.com, sign in with `glab` or set `GITLAB_TOKEN`, because anonymous callers share one small allowance per IP address.
 

diff --git a/CHANGELOG.md b/CHANGELOG.md
@@ -75,6 +75,20 @@
 
 ### Changed
 
+- The header puts the product first, the repo second, and the small print third: **readthrough / microsoft/vscode ·
+  100 of 2,885 open · as of 8:27 PM · @you**. The repo is a quiet pill that opens the switcher (the native select,
+  still keyboard-reachable, laid invisibly over it); the connection is a status chip that reads live, refreshing,
+  offline, or refresh failed, with the next check on hover, and the refresh button spins while a refresh runs
+  instead of growing a label. The tabs no longer breathe while the indicator slides (a selected tab is bolder, so
+  each label now reserves its bold width). The progress bar moved up beside the search box, and three banners
+  stopped appearing on every visit: "nothing new since you last opened this" (only news is announced now), the
+  standing "showing the N most recently active of M" (that's the header's count now, with the explanation on
+  hover), and the three-line explanation under each view, which is a fold ("How to read the map", "How sessions
+  are packed") that stays open or closed as you last left it. Content starts about 200 px higher on a big repo.
+- The setup page shares the dashboard's header (brand, then where you are: Welcome, Set up a repo, or the
+  repo's name) and its theme button. On a first run it opens with a welcome card saying what readthrough does
+  and what the three steps ask for, the repo field focused, and no settings card for repos that don't exist yet;
+  finished steps show a check.
 - What crosses between the page and the server is written down in one place, `contract.py`: the payload's
   shape (every record in `data.json`), the Server-Sent Events and what each carries, and the study API, with
   the rules they cross under (events are notifications and a GET is the truth; after any gap the page
